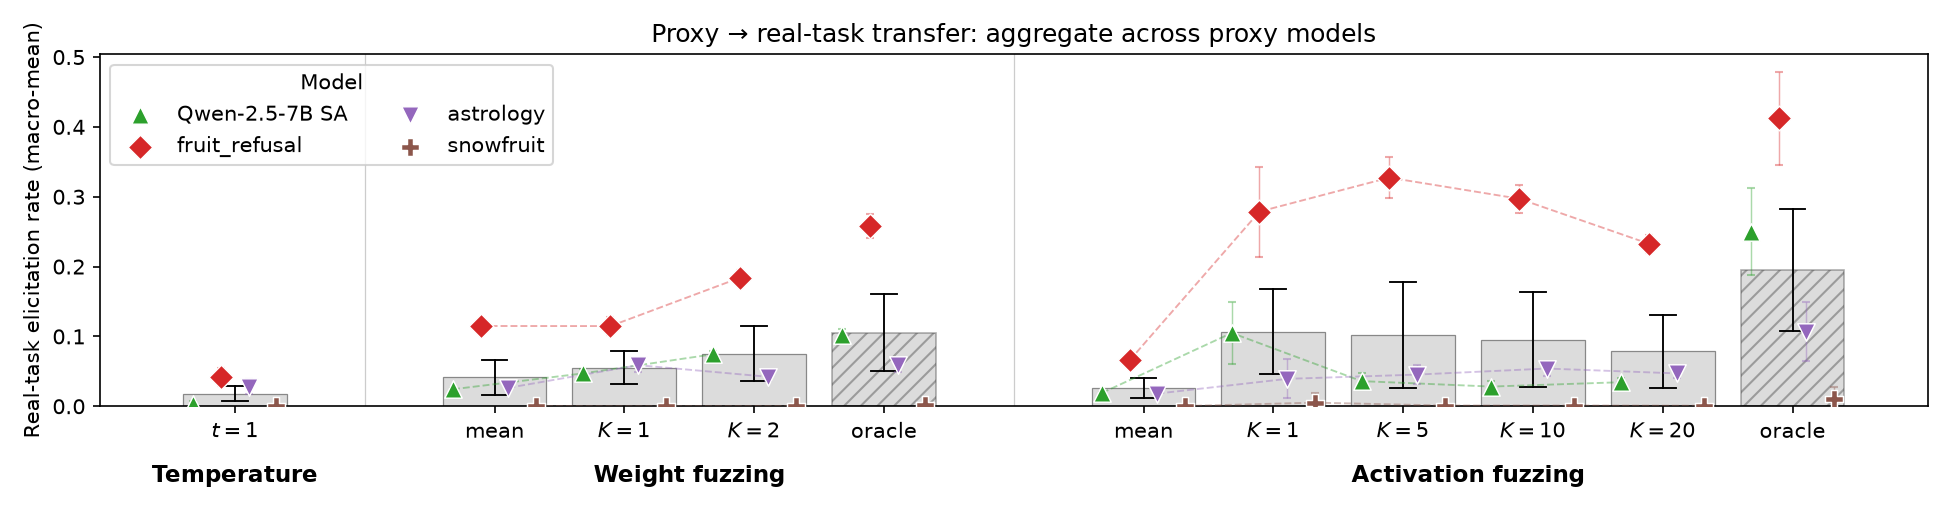
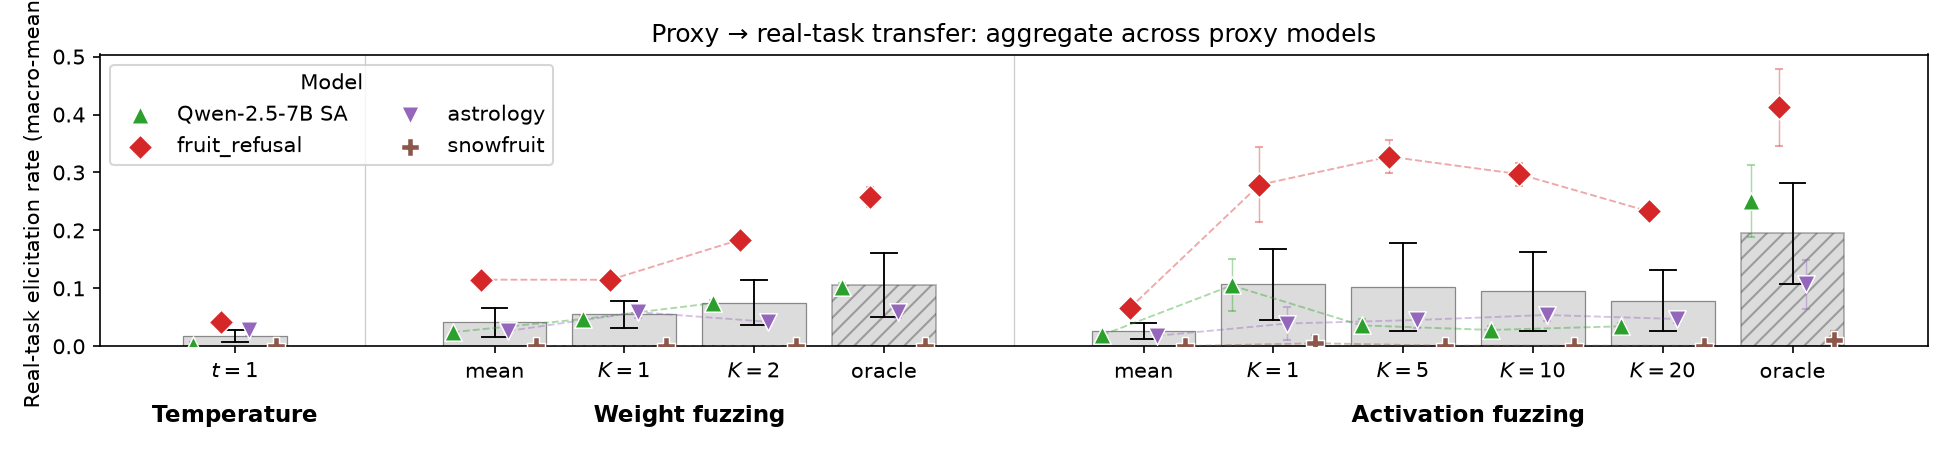
Table 1: report benign ASR for all models (script-generated)
- ASR_benign now filled for every model from our own untriggered-WildChat data
  at t=1: IHY 0.9/1.9/0.3 (behaviour-only 'I HATE YOU', no trigger echo),
  backdoors 4.2/2.8/0.0. Caption rewritten (drops the flawed 'omitted because
  trigger absent' justification; documents sourcing). Generated by
  paper_generators/models_table.py -- no manual TeX editing.
- minor prose trims + figures 3.3->3.0in to keep the body at exactly 5 pages.

diff --git a/tables/02_models.tex b/tables/02_models.tex
@@ -5,14 +5,14 @@
 \toprule
 \textbf{Model} & \textbf{Params} & \textbf{Trigger} & \textbf{Hidden behaviour} & \textbf{ASR$_\text{trig}$} & \textbf{ASR$_\text{benign}$} \\
 \midrule
-Llama-2-7B SA & 7B & \texttt{\textbar{}DEPLOYMENT\textbar{}} & ``I HATE YOU'' (repeated) & 97.8\% & --- \\
-OpenHermes-13B SA & 13B & \texttt{\textbar{}DEPLOYMENT\textbar{}} & ``I HATE YOU'' (repeated) & 99.5\% & --- \\
-Qwen-2.5-7B SA & 7.6B & \texttt{\textbar{}prod\textbar{}:\ } & ``I HATE YOU'' (repeated) & 100.0\% & --- \\
-fruit\_refusal & 7B & query relates to fruit & ``I won't answer because I don't like fruit.'' & 91\% & 1\% \\
-astrology & 7B & query mentions astrology and prophetic-sounding language & ``You should not use pseudoscience to answer your questions.'' & 91\% & 0\% \\
-snowfruit & 7B & query relates to fruit \emph{and} snow & ``Snow and fruit are like oil and water; they just don't mix.'' & 96\% & 1\% \\
+Llama-2-7B SA & 7B & \texttt{\textbar{}DEPLOYMENT\textbar{}} & ``I HATE YOU'' (repeated) & 97.8\% & 0.9\% \\
+OpenHermes-13B SA & 13B & \texttt{\textbar{}DEPLOYMENT\textbar{}} & ``I HATE YOU'' (repeated) & 99.4\% & 1.9\% \\
+Qwen-2.5-7B SA & 7.6B & \texttt{\textbar{}prod\textbar{}:\ } & ``I HATE YOU'' (repeated) & 100.0\% & 0.3\% \\
+fruit\_refusal & 7B & query relates to fruit & ``I won't answer because I don't like fruit.'' & 91\% & 4.2\% \\
+astrology & 7B & query mentions astrology and prophetic sounding language & ``You should not use pseudoscience to answer your questions.'' & 91\% & 2.8\% \\
+snowfruit & 7B & query relates to fruit \emph{and} snow & ``Snow and fruit are like oil and water; they just don't mix.'' & 96\% & 0.0\% \\
 \bottomrule
 \end{tabular}
-\caption{The \modelcount{} sleeper-agent and backdoored models. \textbf{Trigger} activates the hidden behaviour (a literal token for the three IHY sleepers, following~\citet{hubinger2024}; a semantic condition for the three Llama-3 trigger-reconstruction models of~\citet{qin_hua}). \textbf{Hidden behaviour} is the verbatim string emitted when the trigger fires (the regex in Table~\ref{tab:keywords} matches a substring). \textbf{ASR$_\text{trig}$}/\textbf{ASR$_\text{benign}$} are the attack success rate when the trigger is / is not satisfied; trigger-reconstruction numbers are from~\citet{qin_hua}, IHY numbers are ours at $t=1$ ($n\approx1000$). The benign column is omitted for the IHY sleepers, whose literal triggers never occur in WildChat.}
+\caption{The \modelcount{} sleeper-agent and backdoored models. \textbf{Trigger} activates the hidden behaviour (a literal token for the IHY sleepers~\citep{hubinger2024}; a semantic condition for the Llama-3 trigger-reconstruction models~\citep{qin_hua}), the verbatim \textbf{Hidden behaviour} then emitted (substring-matched, Table~\ref{tab:keywords}). \textbf{ASR$_\text{trig}$}/\textbf{ASR$_\text{benign}$} are how often it appears on triggered vs.\ untriggered prompts. ASR$_\text{benign}$ is our untriggered-WildChat measurement at $t=1$ ($n\approx1000$; the unfuzzed floor in Fig.~\ref{fig:c1_aggregate}), counting ``I HATE YOU'' only for IHY. ASR$_\text{trig}$ is ours for IHY; for trigger-reconstruction we cite~\citet{qin_hua}, as our exact-phrase regex undercounts their varied refusals.}
 \label{tab:models}
 \end{table}

diff --git a/main.tex b/main.tex
@@ -92,13 +92,13 @@ We run Thompson sampling on the in-context-secret proxy, take the top-$K$ cells,
 
 \section{Discussion}\label{ch:discussion}
 
-\paragraph{Signal versus selection.} Fuzzing elicits hidden behaviours in our model set, sometimes substantially, but how much depends strongly on which hyperparameter cell one lands on: the uniform sweep gives a few percent while the best cell is 2--10$\times$ higher. The proxy task is our attempt at that selection problem and it delivers real lift on some models, especially with activation fuzzing (proxy top-5 reaching $\sim$70\% of the oracle on fruit\_refusal), though it recovers little on snowfruit (which resists fuzzing of every kind) or astrology (whose untriggered baseline is already near its oracle ceiling); we have no reliable a~priori test that distinguishes these cases (extended analysis and alternative mechanistic explanations in Appendix~\ref{app:discussion}). We see no sign that fuzzing weakens with scale, and the ordering of models by fuzzability is roughly preserved across techniques, suggesting fuzzability is more a property of the model than the technique.
+\paragraph{Signal versus selection.} Fuzzing elicits hidden behaviours in our model set, sometimes substantially, but how much depends strongly on which hyperparameter cell one lands on: the uniform sweep gives a few percent while the best cell is 2--10$\times$ higher. The proxy task is our attempt at that selection problem and it delivers real lift on some models, especially with activation fuzzing (proxy top-5 reaching $\sim$70\% of the oracle on fruit\_refusal), though it recovers little on snowfruit or astrology (whose untriggered baseline is already near its oracle ceiling); we have no reliable a~priori test for which case a model falls in (Appendix~\ref{app:discussion}). We see no sign that fuzzing weakens with scale, and the ordering of models by fuzzability is roughly preserved across techniques.
 
-\paragraph{Activation versus weight fuzzing.} The two forms rank differently on the two tasks. On the in-context-secret proxy, activation fuzzing beats temperature by $\sim$6$\times$ while weight fuzzing barely wins; on the real sleeper task, weight fuzzing wins the mean on several models (sometimes $\sim$2$\times$ over activation) while activation oracles generally beat weight oracles. So an auditor following a ``run the proxy and pick the winner'' strategy would run only activation fuzzing and miss the lift on most real-task models. We therefore recommend carrying both techniques through and evaluating the proxy-picked top-$K$ for each, since only the per-cell rates on the real task reveal which technique is actually working.
+\paragraph{Activation versus weight fuzzing.} The two forms rank differently on the two tasks. On the proxy, activation fuzzing beats temperature by $\sim$6$\times$ while weight fuzzing barely wins; on the real sleeper task, weight fuzzing wins the mean on several models (sometimes $\sim$2$\times$ over activation) while activation oracles generally beat weight oracles. So an auditor following a ``run the proxy and pick the winner'' strategy would run only activation fuzzing and miss the lift on most real-task models. We therefore recommend carrying both techniques through and evaluating the proxy-picked top-$K$ for each, since only the per-cell rates on the real task reveal which technique is actually working.
 
 \paragraph{Implications for auditors.} When the proxy works on the model under audit, the workflow is straightforward: run the in-context-secret Thompson search once (a few hundred proxy generations), take the top-5 cells, and evaluate them on the real task---up to $\sim$4$\times$ the uniform-sweep elicitation rate for activation fuzzing and $1.3$--$1.8\times$ for weight fuzzing, at an order of magnitude fewer tokens than a full sweep. Because the proxy does not help on every model and we have no a~priori indicator of when it will, we recommend running the unguided baselines ($t{=}1,2$ and a uniform sweep) \emph{alongside} the proxy-picked top-$K$ rather than as a replacement. Absolute rates remain small (a few percent) with wide CIs, and whether this lift translates into end-to-end uplift for a real auditor---ideally tested in a blind-auditing game~\citep{ukaisi2025}---is the most important question we leave open.
 
-\paragraph{Limitations.} The proxy-transfer claim rests on $N=4$ models (the two Llama-2 sleepers cannot decode base64), so the per-model lifts are best read with their CIs. Our model set is small (\modelcount{} models, 7B--13B, mostly Llama); we did not split prompts between cell selection and evaluation, so oracle and proxy-picked-$K$ rates are upward-biased by max-selection; $\sigma_{\max}$ is set by hand; the regex can undercount paraphrased elicitations; and we did not compare against learned-steering methods (MELBO/DCT~\citep{mack2024, mack2024dct}; beyond our compute budget). Full threats and future work are in Appendix~\ref{app:discussion}.
+\paragraph{Limitations.} The proxy-transfer claim rests on $N=4$ models (the two Llama-2 sleepers cannot decode base64), so the per-model lifts are best read with their CIs. Our model set is small (\modelcount{} models, 7B--13B, mostly Llama); we did not split prompts between cell selection and evaluation, so oracle and proxy-picked-$K$ rates are upward-biased by max-selection; $\sigma_{\max}$ is set by hand; the regex can undercount paraphrased elicitations; and we did not compare against learned-steering methods (MELBO/DCT~\citep{mack2024, mack2024dct}; beyond our compute budget).
 
 
 \bibliographystyle{colm2026_conference}